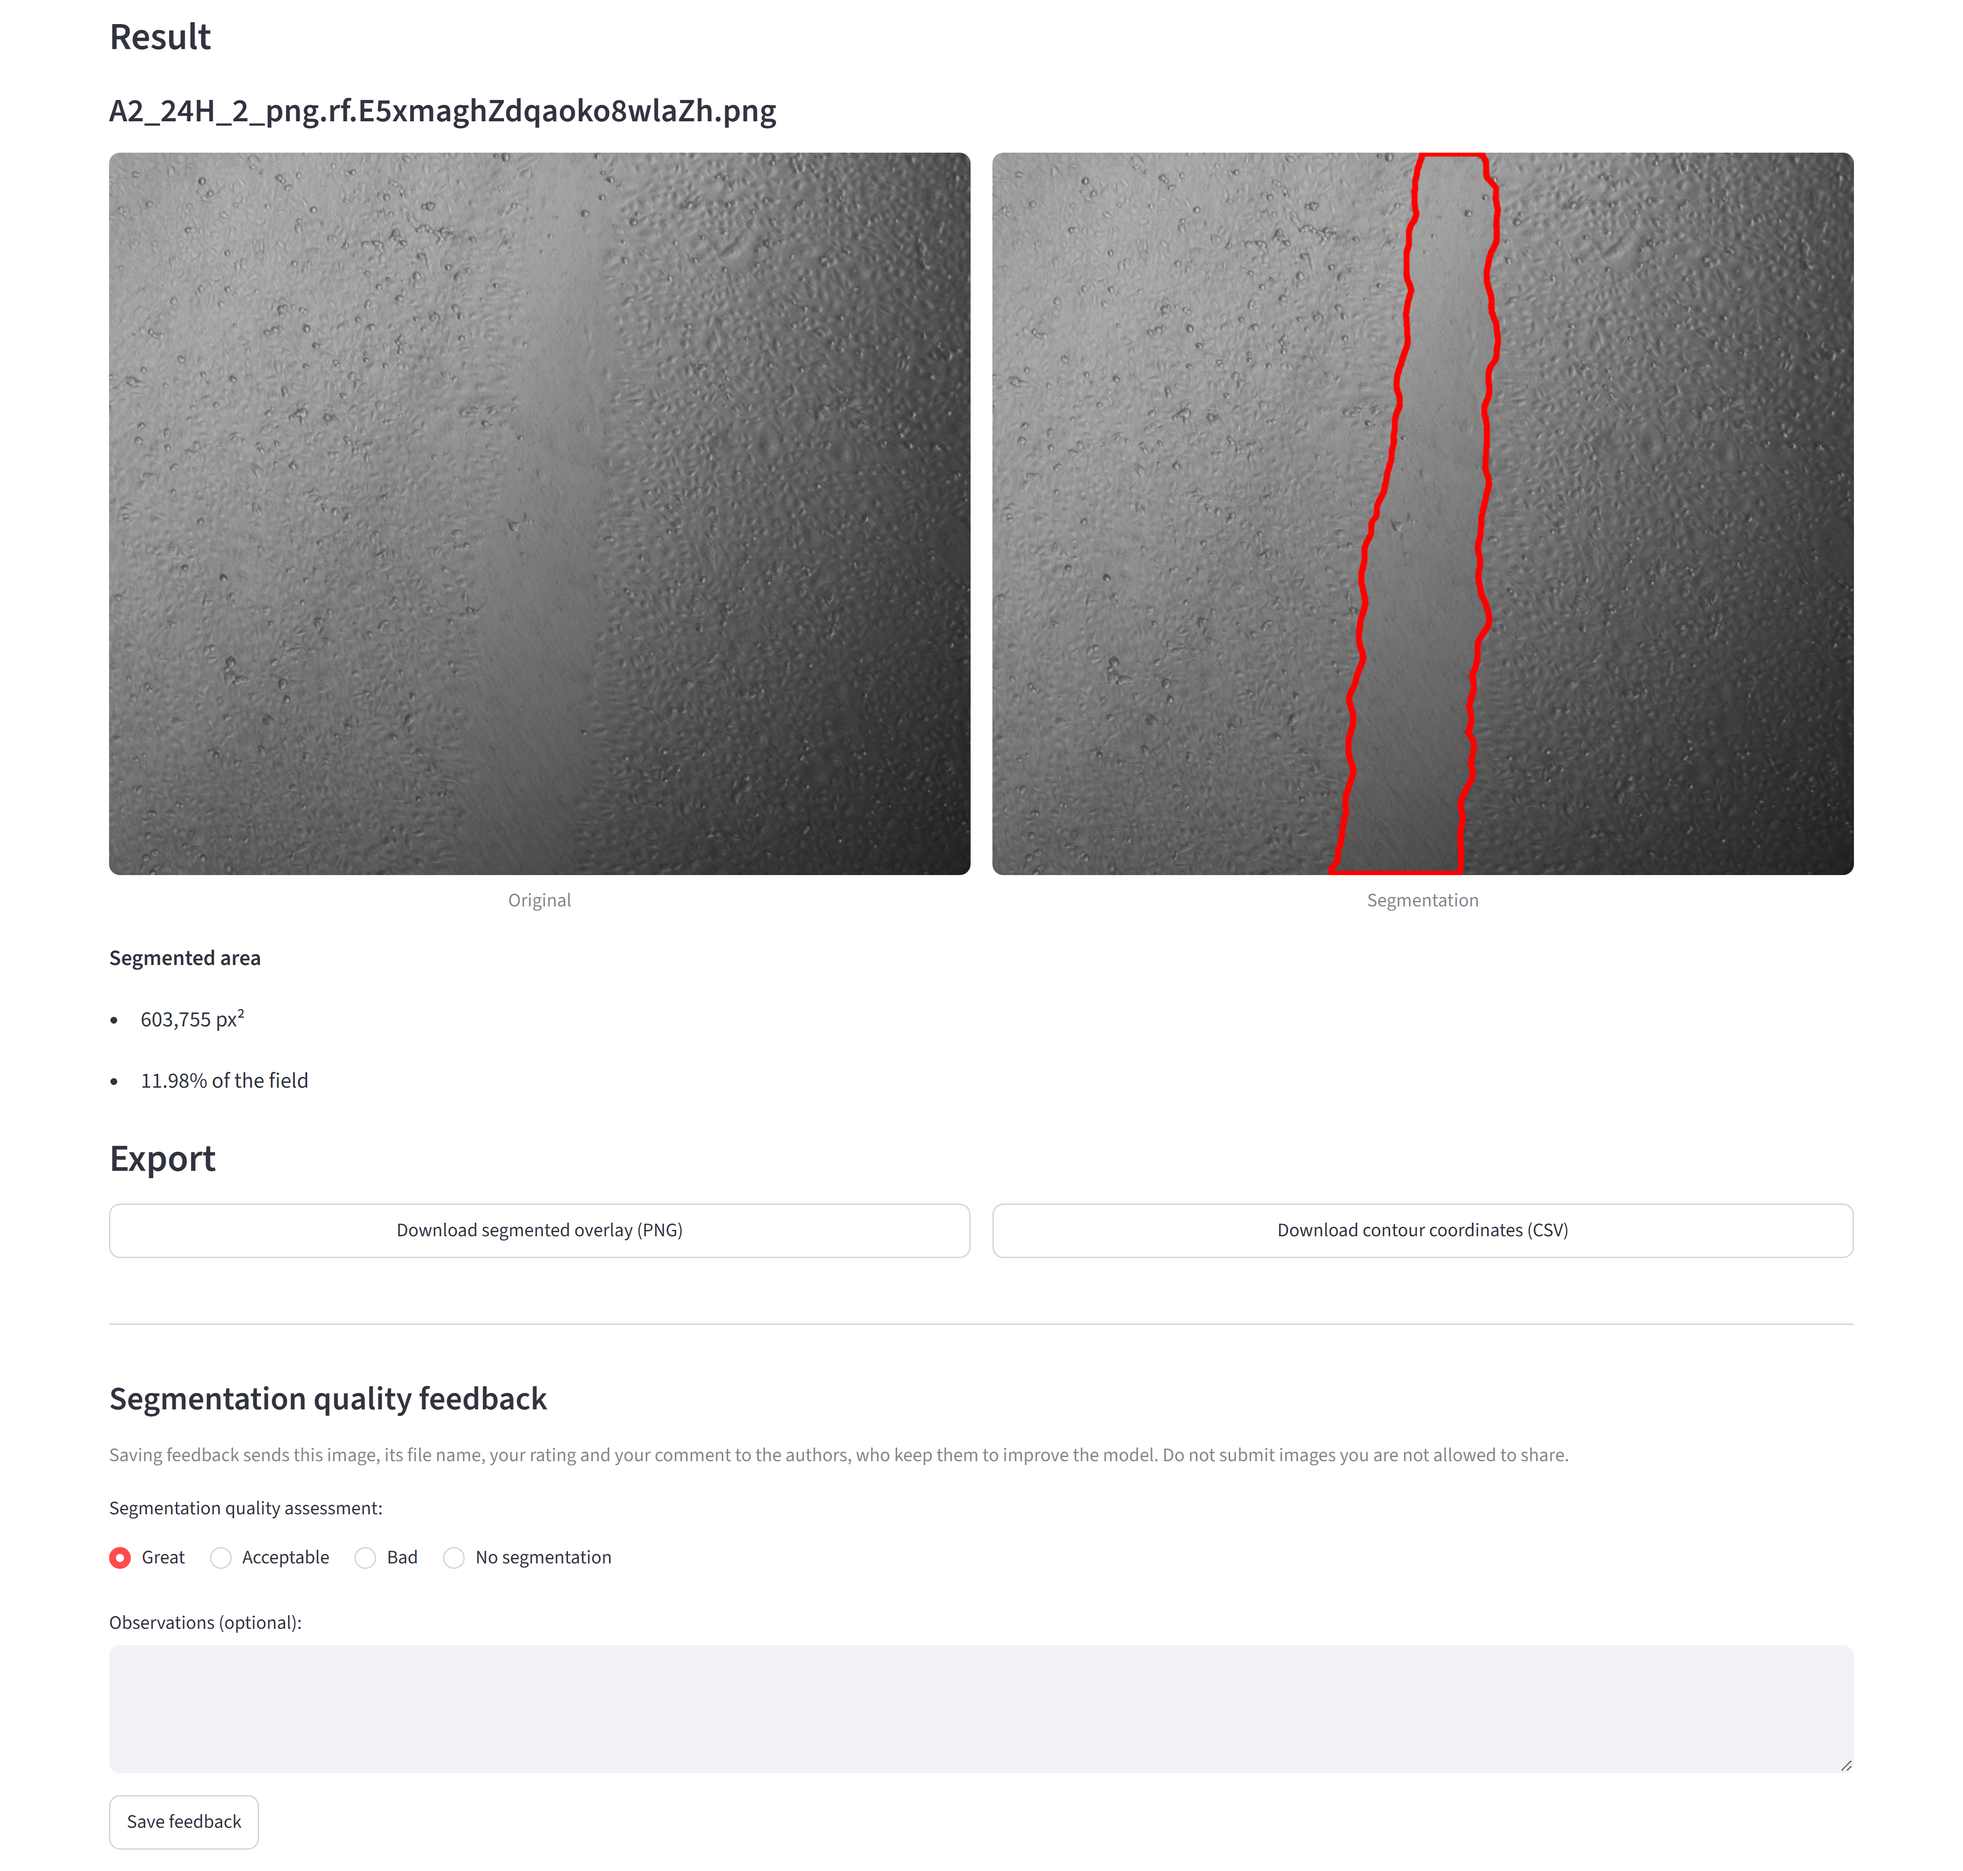
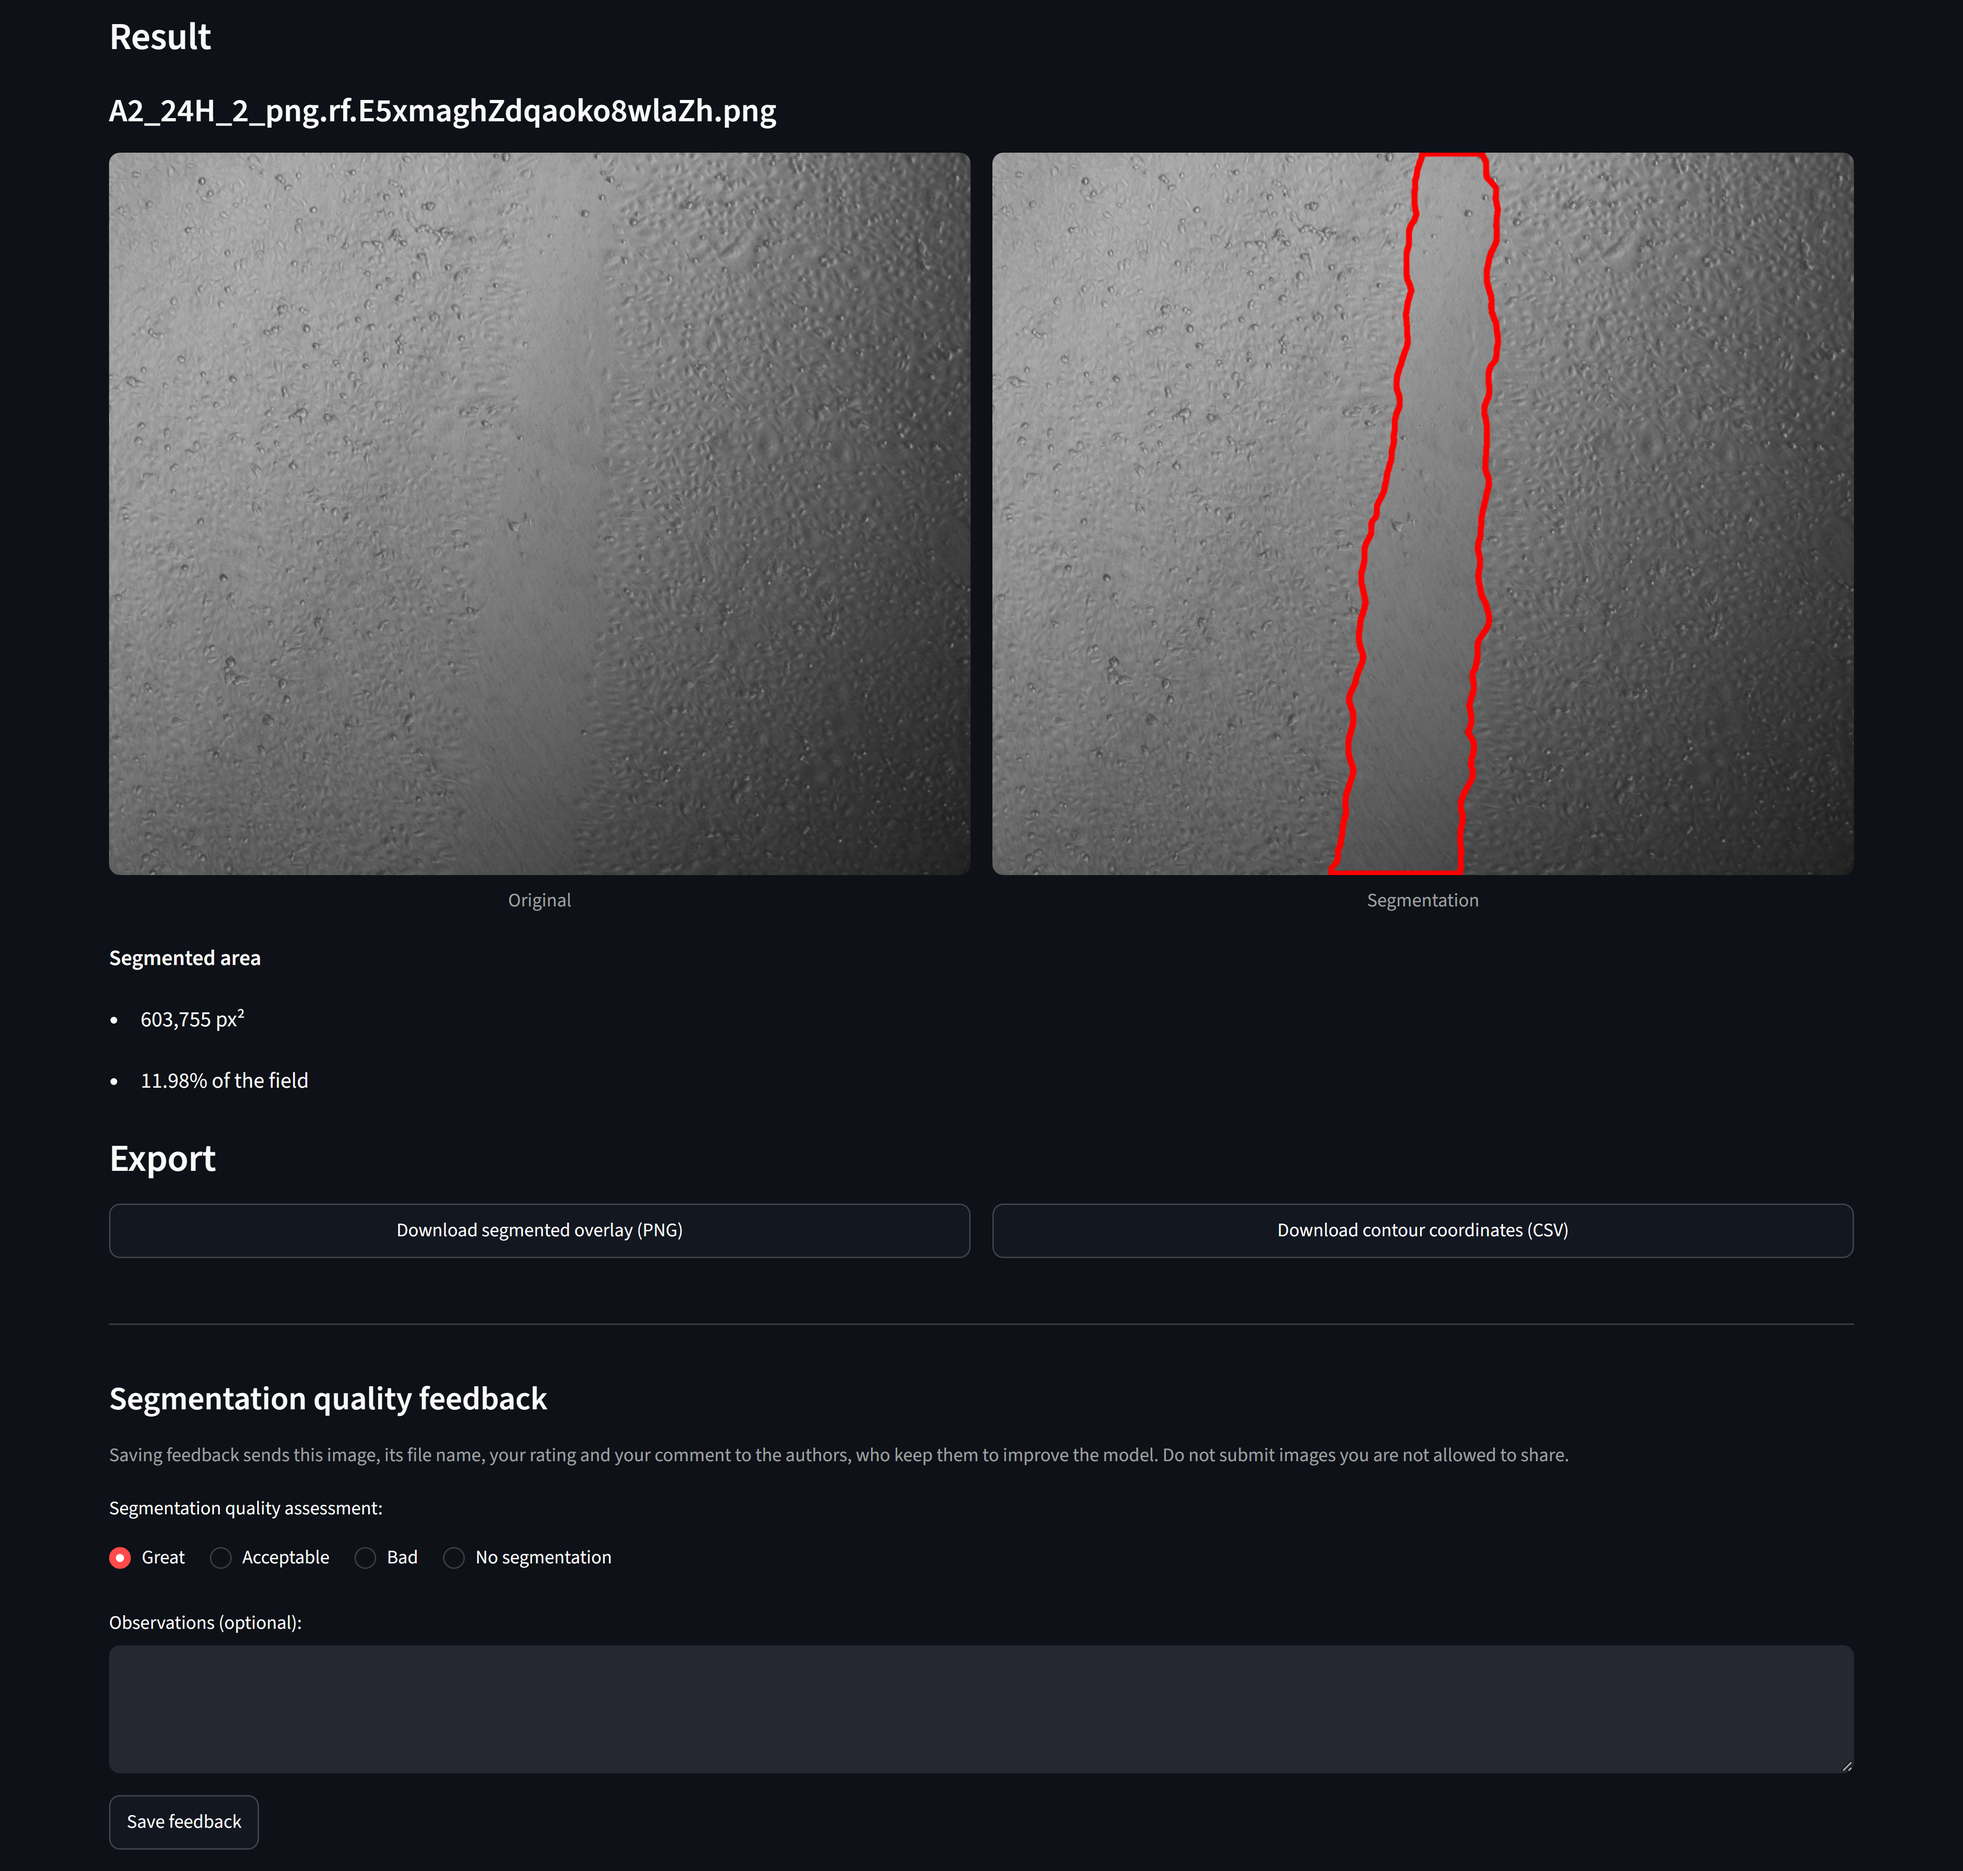
As Figuras 2 e 7 passam ao fundo escuro
O capture_figures.py passa a ter o tema escuro como padrao, o das figuras publicadas; as versoes claras continuam reproduziveis com --theme light.

diff --git a/webapp/capture_figures.py b/webapp/capture_figures.py
@@ -50,7 +50,7 @@ the same, but Edge updates itself and the exact build is no longer under our con
 
     python webapp/capture_figures.py --out figures
     python webapp/capture_figures.py --out figures --browser msedge
-    python webapp/capture_figures.py --out figures --theme light --scale 4
+    python webapp/capture_figures.py --out light --theme light --scale 4   # the light alternative
 """
 import argparse
 import io
@@ -286,12 +286,12 @@ def main():
     ap.add_argument("--chrome", action="store_true",
                     help="capture through the Hugging Face page, keeping the platform "
                          "header as the current figures show it")
-    ap.add_argument("--theme", choices=["light", "dark", "as-is"], default="light",
+    ap.add_argument("--theme", choices=["light", "dark", "as-is"], default="dark",
                     help="app.py sets no theme and there is no .streamlit/config.toml, "
-                         "so Streamlit follows the viewer's prefers-color-scheme. The "
-                         "dark look of the current figures is not 'the tool's "
-                         "appearance' — it is the tool seen from an OS in dark mode. "
-                         "Light is the default here because a full-bleed dark "
+                         "so Streamlit follows the viewer's prefers-color-scheme; neither "
+                         "look is 'the tool's appearance'. Dark is the default because "
+                         "the published Figures 2 and 7 use it; --theme light produces "
+                         "versions that print better, since a full-bleed dark "
                          "background costs ink, thins white type under dot gain, and "
                          "turns into a grey slab in greyscale.")
     ap.add_argument("--scale", type=int, default=3,
